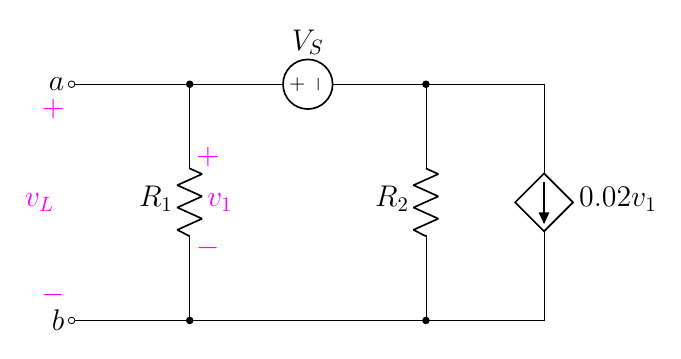
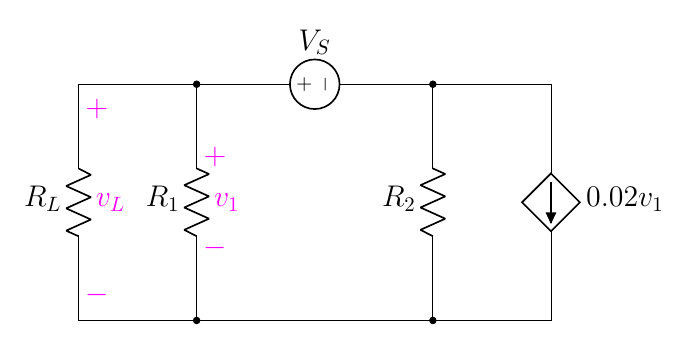
edit 5.41

diff --git a/1.8 Thevinin and Norton/5.3 Thévenin and Norton Equivalent Circuits/5.41(new).tex b/1.8 Thevinin and Norton/5.3 Thévenin and Norton Equivalent Circuits/5.41(new).tex
@@ -3,8 +3,8 @@
 \begin{circuitikz}[american,cute inductors]
     \input{../../preamble2.tex}
 
-    \draw(0,0) node[anchor=east]{$b$}
-        to[short,o-] ++(2,0)
+    \draw(0,0) 
+        to[short] ++(2,0)
         to[R,l=\rname{1},*-*] ++(0,4) ++(0,-4)
         to[short] ++(4,0)
         to[R,l=\rname{2},*-*] ++(0,4)
@@ -12,7 +12,8 @@
         to[american controlled current source,l=$0.02v_1$] ++(0,-4)
         to[short] ++(-2,0) ++(0,4)
         to[V,l_=\vsname{}] ++(-4,0)
-        to[short,-o] ++(-2,0) node[anchor=east]{$a$};
+        to[short] ++(-2,0)
+        to[R,l_=\rname{L}] (0,0);
 
     %%% find %%%
     % node[anchor=west]{$a$}
@@ -23,7 +24,7 @@
         to[open,v^=$v_1$] ++(0,-2);
 
     \draw[magenta](0,4)  
-        to[open,v_=$v_L$] ++(0,-4);
+        to[open,v^=$v_L$] ++(0,-4);
 
     % \draw[circuitikz/current arrow color=magenta](-10,3.9)
     % to[open,f>^=$\color{magenta}{i_x}$] ++(0,-2);
